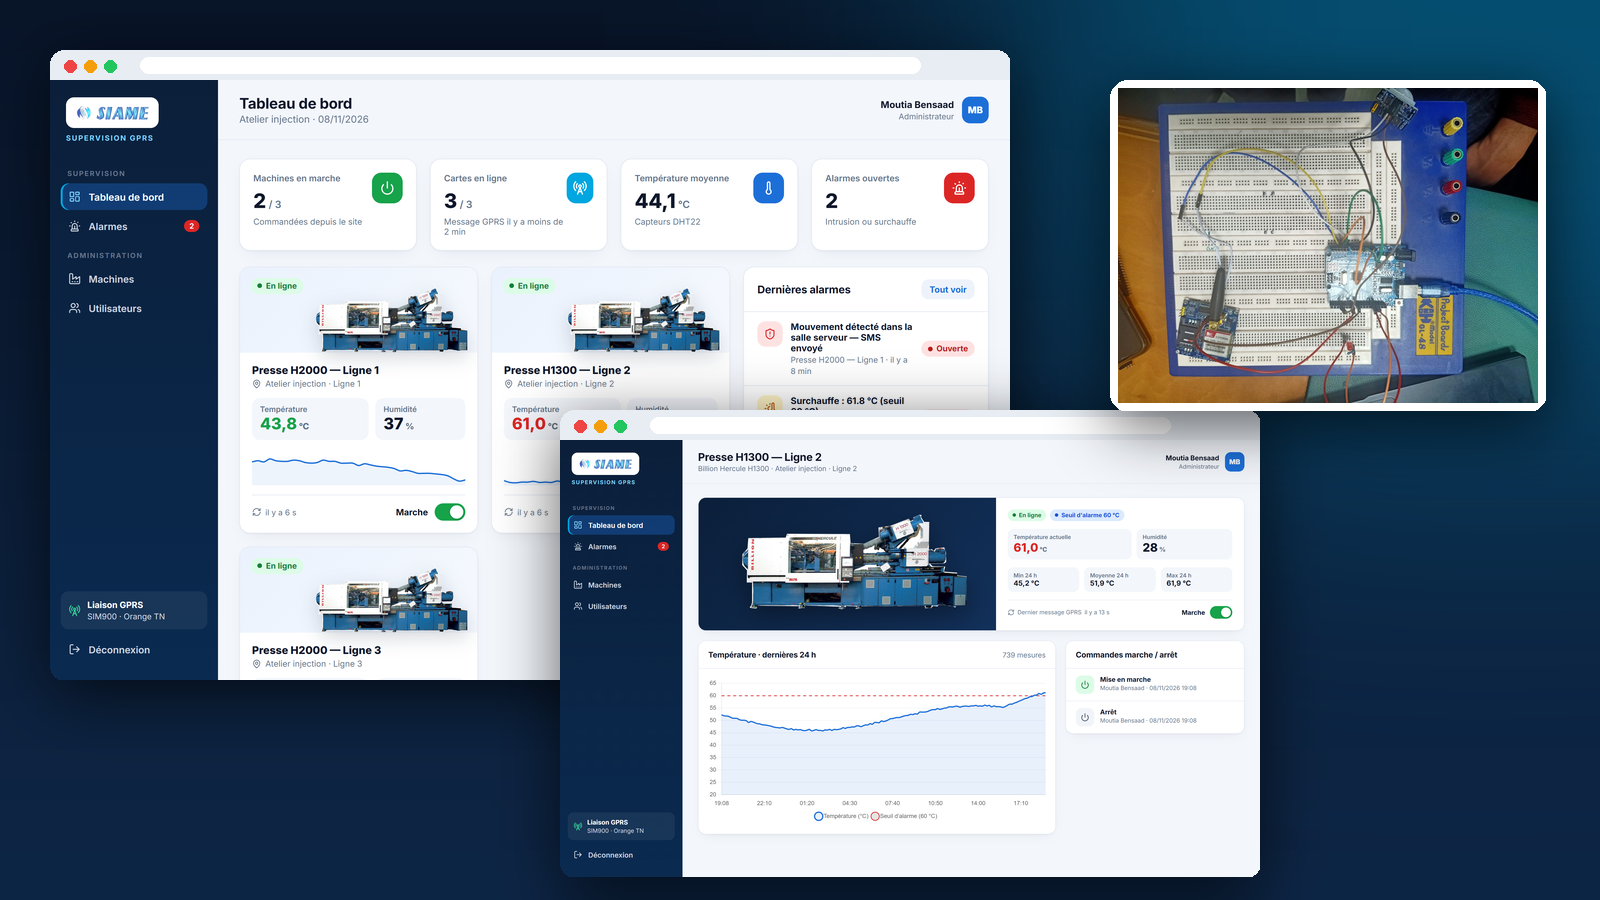
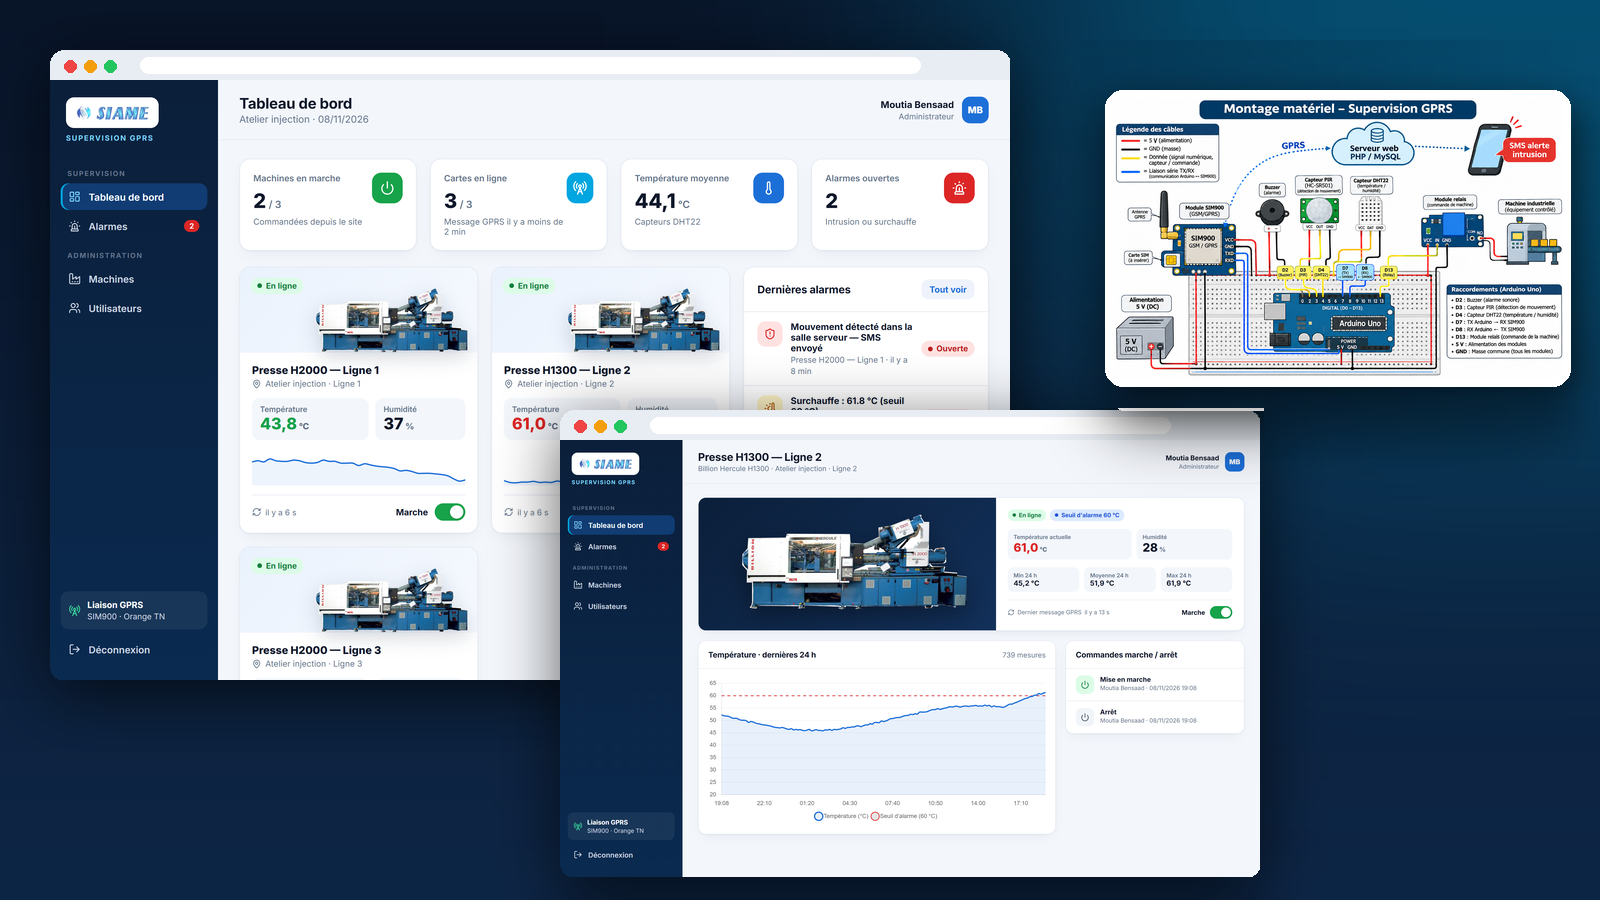
Portfolio: AI visual inspection project, projects in chronological order, more final-year project images

Changed region(s): [[0.6875, 0.0622, 1.0, 0.4667]]

diff --git a/src/components/Project/projects.ts b/src/components/Project/projects.ts
@@ -43,6 +43,19 @@ import pfeAiDiagnostic from "../../assets/projects/details/pfe_ai_diagnostic.jpg
 import pfeKpiMobile from "../../assets/projects/details/pfe_kpi_mobile.jpg"
 import pfeConfusion from "../../assets/projects/details/pfe_confusion.jpg"
 import pfeRoc from "../../assets/projects/details/pfe_roc.jpg"
+import pfeAlerts from "../../assets/projects/details/pfe_alerts.jpg"
+import pfeEpisode from "../../assets/projects/details/pfe_episode.jpg"
+import pfeImportance from "../../assets/projects/details/pfe_importance.jpg"
+import pfeThreshold from "../../assets/projects/details/pfe_threshold.jpg"
+import visualInspection from "../../assets/projects/visual_inspection.png"
+import inspection1 from "../../assets/projects/details/inspection_1.jpg"
+import inspection2 from "../../assets/projects/details/inspection_2.jpg"
+import inspection3 from "../../assets/projects/details/inspection_3.jpg"
+import inspection4 from "../../assets/projects/details/inspection_4.jpg"
+import inspection5 from "../../assets/projects/details/inspection_5.jpg"
+import inspection6 from "../../assets/projects/details/inspection_6.jpg"
+import inspectionM1 from "../../assets/projects/details/inspection_m1.jpg"
+import inspectionM2 from "../../assets/projects/details/inspection_m2.jpg"
 
 export type Shot = { src: string; caption: string; mobile?: boolean }
 
@@ -68,46 +81,86 @@ export type ProjectItem = {
 
 export const projects: ProjectItem[] = [
   {
-    slug: "predictive-maintenance",
-    title: "Intelligent Predictive Maintenance System for Industrial Machines",
-    category: "IoT · AI · Web & Mobile — Final-year project",
+    slug: "siame",
+    title: "SIAME – Remote Machine Monitoring over GPRS",
+    category: "Embedded · IoT — Internship (SIAME)",
     description:
-      "Final-year project (Professional Master). A Raspberry Pi 5 with 5 sensors (temperature, vibration, thermal camera, current) monitors wire processing machines. A Random Forest model identifies the probable failure cause and XGBoost estimates the 24-hour failure risk. Alerts reach the maintenance team in real time on a React web dashboard and a Flutter mobile app, with interventions, preventive checklists and MTBF / MTTR indicators.",
-    techs: ["Raspberry Pi", "Python", "scikit-learn", "XGBoost", "FastAPI", "Node.js", "MongoDB", "React", "Flutter"],
-    image: predictiveMaintenance,
-    featured: true,
+      "Internship at SIAME (electrical equipment manufacturer). An Arduino Uno with a SIM900 GSM/GPRS module sends each injection press's temperature (DHT22) to a PHP/MySQL server, receives remote on/off commands, and a PIR sensor triggers SMS alerts for server-room intrusions.",
+    techs: ["Arduino", "SIM900 GPRS", "DHT22", "PIR", "PHP 8", "MySQL", "Chart.js", "Python"],
+    image: siameGprs,
+    link: "https://github.com/moutiasaad/siame",
+    linkLabel: "Source code",
     details: {
       context:
-        "Six-month final-year internship in a wire harness factory in Tunisia. Maintenance of the Komax wire processing machines (Alpha 433 H and Gamma 333 PC) was purely corrective and tracked on paper. The goal was to see failures coming and to give the maintenance team one tool for alerts, interventions and daily checks.",
-      role: "Whole project, alone: hardware, firmware scripts, machine learning, REST API, web dashboard and mobile app.",
+        "Second-year internship at SIAME, a manufacturer of electrical equipment in Grombalia. The injection presses had no remote supervision, and the server room had no intrusion alarm.",
+      role: "Electronics prototype, Arduino firmware and the PHP web application.",
       features: [
-        "Raspberry Pi 5 on the machine: 2 DHT22 temperature sensors, MPU6050 vibration, AMG8833 thermal camera and SCT-013 current clamp, with a local buffer when the network drops",
-        "AI service every 5 minutes on a 2-hour window: Random Forest gives the probable cause, XGBoost the risk of failure within 24 hours",
-        "Alerts pushed to the right person (line leader, then maintenance manager), approval of an alert into a predictive intervention",
-        "Interventions, preventive checklists with photo evidence, daily follow-up sheet, maintenance calendar",
-        "MTBF / MTTR indicators and reliability reports per machine",
-        "Sensor and Raspberry Pi watchdog: offline Pi or silent sensor raises its own alert",
+        "Arduino Uno + SIM900: periodic GPRS request with temperature and humidity, the reply carries the on/off command for the machine relay",
+        "PIR sensor in the server room: SMS to the person in charge, buzzer and an intrusion alarm on the dashboard",
+        "Web dashboard: machines online, live temperatures, 24-hour charts with the alarm threshold",
+        "Remote start / stop with a log of who sent each command",
+        "Alarm list with acknowledgement, user and machine administration",
+        "Python simulator to test the server without the board",
       ],
       highlights: [
-        "Random Forest: macro F1 0.85 on 5 failure causes, validated with week-blocked cross-validation",
-        "XGBoost 24-hour risk: AUC 0.94, all 69 test failures announced, median 19.5 h in advance, about 1 false alert per week (6.5 with simple thresholds)",
-        "Real prototype tested on an Alpha 433 H machine",
+        "Non-blocking firmware: AT commands wait for the modem replies instead of fixed delays",
+        "Each board authenticates with a device key; the server rejects out-of-range readings",
       ],
       stack: [
-        { label: "IoT", items: ["Raspberry Pi 5", "Python", "I²C", "systemd"] },
-        { label: "AI", items: ["scikit-learn", "XGBoost", "pandas", "FastAPI"] },
-        { label: "Backend", items: ["Node.js", "Express", "MongoDB", "JWT", "Firebase Cloud Messaging"] },
-        { label: "Apps", items: ["React", "Flutter"] },
+        { label: "Embedded", items: ["Arduino Uno", "SIM900 GSM/GPRS", "DHT22", "PIR", "Relay"] },
+        { label: "Web", items: ["PHP 8", "MySQL", "Chart.js"] },
+        { label: "Tools", items: ["Python", "arduino-cli"] },
       ],
       gallery: [
-        { src: predictiveMaintenance, caption: "Web dashboard and mobile app" },
-        { src: pfeArchitecture, caption: "System architecture: IoT units, central server, web and mobile apps" },
-        { src: pfePrototype, caption: "Prototype wiring: Raspberry Pi, DHT22 ×2, MPU6050, AMG8833 and SCT-013 current clamp" },
-        { src: pfeSensors, caption: "Live sensor values on a machine (web)" },
-        { src: pfeAiDiagnostic, caption: "AI diagnostic when creating an intervention" },
-        { src: pfeKpiMobile, caption: "Maintenance KPIs in the mobile app (MTTR, MTBF, availability)" },
-        { src: pfeConfusion, caption: "Random Forest: confusion matrix on the 5 failure causes + normal" },
-        { src: pfeRoc, caption: "XGBoost 24-hour risk: ROC curve (AUC 0.94)" },
+        { src: siamePrototype, caption: "Prototype wiring: Arduino Uno, SIM900 GPRS module, DHT22, PIR sensor, buzzer and machine relay" },
+        { src: siame1, caption: "Supervision dashboard" },
+        { src: siame2, caption: "Machine detail with 24-hour temperature chart" },
+        { src: siame3, caption: "Alarms: intrusion and overheating" },
+        { src: siameM1, caption: "Mobile view", mobile: true },
+      ],
+    },
+  },
+  {
+    slug: "visual-inspection",
+    title: "AI Visual Quality Inspection for Injection-Molded Parts",
+    category: "AI · Embedded · Web — Makeathon (Orange Digital Center)",
+    description:
+      "Makeathon project. A camera on a Raspberry Pi at the output of a plastic injection press photographs every terminal block. A two-stage AI first decides good or defective, then names the defect. Results reach a Django API and a web dashboard where the quality team follows the scrap rate of each press and decides on the parts the AI is unsure about.",
+    techs: ["Raspberry Pi", "Python", "TensorFlow Lite", "MobileNetV2", "Django REST", "React", "Vite"],
+    image: visualInspection,
+    details: {
+      context:
+        "Inter-ODC Makeathon organised by Orange Digital Center. In plastic injection workshops, parts are still checked by eye at the press output, and defects such as burn marks or bubbles slip through on long shifts. The prototype targets terminal blocks, a typical part made on injection presses.",
+      role: "AI model and training, inspection script for the Raspberry Pi, Django REST API and web dashboard.",
+      features: [
+        "Raspberry Pi with a camera at the press output; the inspection runs on the Pi with TensorFlow Lite",
+        "Stage 1, good or defective: anomaly detection learned from photos of good parts only (PatchCore idea on MobileNetV2 features), so it does not need many photos of defects",
+        "Stage 2, defect type: MobileNetV2 transfer learning on a zoom of the most suspicious zone found by stage 1",
+        "Results the AI is unsure about are flagged «to check»: the operator sees the photo and decides",
+        "Dashboard: parts inspected per day, scrap rate per press, defect types, full history with photos",
+        "Device API protected by a key; each inspection is stored with its photo",
+      ],
+      highlights: [
+        "Decision threshold chosen by cost: a defective part let through counts ten times more than a good part rejected",
+        "Train / test split grouped by part, so photos of the same part never end up on both sides",
+        "The same .tflite models run on the PC and on the Raspberry Pi",
+      ],
+      stack: [
+        { label: "AI", items: ["TensorFlow / Keras", "MobileNetV2", "TensorFlow Lite", "scikit-learn"] },
+        { label: "Embedded", items: ["Raspberry Pi", "Pi Camera", "Python"] },
+        { label: "Backend", items: ["Django REST Framework", "Token auth", "SQLite"] },
+        { label: "Web", items: ["React", "Vite", "Recharts"] },
+      ],
+      gallery: [
+        { src: visualInspection, caption: "Quality dashboard, part review and mobile view" },
+        { src: inspection1, caption: "Dashboard: inspections per day, scrap rate per press and defect types" },
+        { src: inspection4, caption: "A part the AI is unsure about: the operator sees the photo and decides" },
+        { src: inspection3, caption: "Inspection history with photos and filters" },
+        { src: inspection2, caption: "Press detail: daily parts, defects and history" },
+        { src: inspection5, caption: "Presses with their scrap rate" },
+        { src: inspection6, caption: "Sign-in page" },
+        { src: inspectionM1, caption: "Mobile: dashboard", mobile: true },
+        { src: inspectionM2, caption: "Mobile: presses", mobile: true },
       ],
     },
   },
@@ -147,6 +200,34 @@ export const projects: ProjectItem[] = [
         { src: mstM1, caption: "Mobile: quote", mobile: true },
         { src: mstM2, caption: "Mobile: quote result", mobile: true },
       ],
+    },
+  },
+  {
+    slug: "neapolis-car",
+    title: "Neapolis Car – Car Rental Mobile App",
+    category: "Mobile",
+    description:
+      "First mobile application of Neapolis Car, a car rental company, extending its reservation website. Clients can browse available cars, book a rental or a transfer service and follow their reservations. Published on Google Play.",
+    techs: ["Flutter", "Django", "PostgreSQL"],
+    image: neapolisCar,
+    link: "https://play.google.com/store/apps/details?id=com.neapolis_car.neapolis_car&pcampaignid=web_share",
+    linkLabel: "Google Play",
+    details: {
+      context:
+        "Neapolis Car rents cars and offers transfers and excursions in Tunisia. Reservations were only possible on the website; the company wanted a mobile app connected to the same backend.",
+      role: "Flutter client app: screens, API integration with the existing Django backend, publication on Google Play.",
+      features: [
+        "Browse available cars with details and prices",
+        "Book a rental for given dates, or a transfer service",
+        "Account creation and login",
+        "Follow and manage reservations",
+      ],
+      highlights: ["Live product published on Google Play"],
+      stack: [
+        { label: "Mobile", items: ["Flutter", "Dart"] },
+        { label: "Backend", items: ["Django", "PostgreSQL"] },
+      ],
+      gallery: [{ src: neapolisCar, caption: "Reservation, car list, car details and registration screens" }],
     },
   },
   {
@@ -244,70 +325,50 @@ export const projects: ProjectItem[] = [
     },
   },
   {
-    slug: "neapolis-car",
-    title: "Neapolis Car – Car Rental Mobile App",
-    category: "Mobile",
+    slug: "predictive-maintenance",
+    title: "Intelligent Predictive Maintenance System for Industrial Machines",
+    category: "IoT · AI · Web & Mobile — Final-year project",
     description:
-      "First mobile application of Neapolis Car, a car rental company, extending its reservation website. Clients can browse available cars, book a rental or a transfer service and follow their reservations. Published on Google Play.",
-    techs: ["Flutter", "Django", "PostgreSQL"],
-    image: neapolisCar,
-    link: "https://play.google.com/store/apps/details?id=com.neapolis_car.neapolis_car&pcampaignid=web_share",
-    linkLabel: "Google Play",
+      "Final-year project (Professional Master). A Raspberry Pi 5 with 5 sensors (temperature, vibration, thermal camera, current) monitors wire processing machines. A Random Forest model identifies the probable failure cause and XGBoost estimates the 24-hour failure risk. Alerts reach the maintenance team in real time on a React web dashboard and a Flutter mobile app, with interventions, preventive checklists and MTBF / MTTR indicators.",
+    techs: ["Raspberry Pi", "Python", "scikit-learn", "XGBoost", "FastAPI", "Node.js", "MongoDB", "React", "Flutter"],
+    image: predictiveMaintenance,
+    featured: true,
     details: {
       context:
-        "Neapolis Car rents cars and offers transfers and excursions in Tunisia. Reservations were only possible on the website; the company wanted a mobile app connected to the same backend.",
-      role: "Flutter client app: screens, API integration with the existing Django backend, publication on Google Play.",
+        "Six-month final-year internship in a wire harness factory in Tunisia. Maintenance of the Komax wire processing machines (Alpha 433 H and Gamma 333 PC) was purely corrective and tracked on paper. The goal was to see failures coming and to give the maintenance team one tool for alerts, interventions and daily checks.",
+      role: "Whole project, alone: hardware, firmware scripts, machine learning, REST API, web dashboard and mobile app.",
       features: [
-        "Browse available cars with details and prices",
-        "Book a rental for given dates, or a transfer service",
-        "Account creation and login",
-        "Follow and manage reservations",
-      ],
-      highlights: ["Live product published on Google Play"],
-      stack: [
-        { label: "Mobile", items: ["Flutter", "Dart"] },
-        { label: "Backend", items: ["Django", "PostgreSQL"] },
-      ],
-      gallery: [{ src: neapolisCar, caption: "Reservation, car list, car details and registration screens" }],
-    },
-  },
-  {
-    slug: "siame",
-    title: "SIAME – Remote Machine Monitoring over GPRS",
-    category: "Embedded · IoT — Internship (SIAME)",
-    description:
-      "Internship at SIAME (electrical equipment manufacturer). An Arduino Uno with a SIM900 GSM/GPRS module sends each injection press's temperature (DHT22) to a PHP/MySQL server, receives remote on/off commands, and a PIR sensor triggers SMS alerts for server-room intrusions.",
-    techs: ["Arduino", "SIM900 GPRS", "DHT22", "PIR", "PHP 8", "MySQL", "Chart.js", "Python"],
-    image: siameGprs,
-    link: "https://github.com/moutiasaad/siame",
-    linkLabel: "Source code",
-    details: {
-      context:
-        "Second-year internship at SIAME, a manufacturer of electrical equipment in Grombalia. The injection presses had no remote supervision, and the server room had no intrusion alarm.",
-      role: "Electronics prototype, Arduino firmware and the PHP web application.",
-      features: [
-        "Arduino Uno + SIM900: periodic GPRS request with temperature and humidity, the reply carries the on/off command for the machine relay",
-        "PIR sensor in the server room: SMS to the person in charge, buzzer and an intrusion alarm on the dashboard",
-        "Web dashboard: machines online, live temperatures, 24-hour charts with the alarm threshold",
-        "Remote start / stop with a log of who sent each command",
-        "Alarm list with acknowledgement, user and machine administration",
-        "Python simulator to test the server without the board",
+        "Raspberry Pi 5 on the machine: 2 DHT22 temperature sensors, MPU6050 vibration, AMG8833 thermal camera and SCT-013 current clamp, with a local buffer when the network drops",
+        "AI service every 5 minutes on a 2-hour window: Random Forest gives the probable cause, XGBoost the risk of failure within 24 hours",
+        "Alerts pushed to the right person (line leader, then maintenance manager), approval of an alert into a predictive intervention",
+        "Interventions, preventive checklists with photo evidence, daily follow-up sheet, maintenance calendar",
+        "MTBF / MTTR indicators and reliability reports per machine",
+        "Sensor and Raspberry Pi watchdog: offline Pi or silent sensor raises its own alert",
       ],
       highlights: [
-        "Non-blocking firmware: AT commands wait for the modem replies instead of fixed delays",
-        "Each board authenticates with a device key; the server rejects out-of-range readings",
+        "Random Forest: macro F1 0.85 on 5 failure causes, validated with week-blocked cross-validation",
+        "XGBoost 24-hour risk: AUC 0.94, all 69 test failures announced, median 19.5 h in advance, about 1 false alert per week (6.5 with simple thresholds)",
+        "Real prototype tested on an Alpha 433 H machine",
       ],
       stack: [
-        { label: "Embedded", items: ["Arduino Uno", "SIM900 GSM/GPRS", "DHT22", "PIR", "Relay"] },
-        { label: "Web", items: ["PHP 8", "MySQL", "Chart.js"] },
-        { label: "Tools", items: ["Python", "arduino-cli"] },
+        { label: "IoT", items: ["Raspberry Pi 5", "Python", "I²C", "systemd"] },
+        { label: "AI", items: ["scikit-learn", "XGBoost", "pandas", "FastAPI"] },
+        { label: "Backend", items: ["Node.js", "Express", "MongoDB", "JWT", "Firebase Cloud Messaging"] },
+        { label: "Apps", items: ["React", "Flutter"] },
       ],
       gallery: [
-        { src: siamePrototype, caption: "Prototype wiring: Arduino Uno, SIM900 GPRS module, DHT22, PIR sensor, buzzer and machine relay" },
-        { src: siame1, caption: "Supervision dashboard" },
-        { src: siame2, caption: "Machine detail with 24-hour temperature chart" },
-        { src: siame3, caption: "Alarms: intrusion and overheating" },
-        { src: siameM1, caption: "Mobile view", mobile: true },
+        { src: predictiveMaintenance, caption: "Web dashboard and mobile app" },
+        { src: pfeArchitecture, caption: "System architecture: IoT units, central server, web and mobile apps" },
+        { src: pfePrototype, caption: "Prototype wiring: Raspberry Pi, DHT22 ×2, MPU6050, AMG8833 and SCT-013 current clamp" },
+        { src: pfeSensors, caption: "Live sensor values on a machine (web)" },
+        { src: pfeAlerts, caption: "AI alerts and failure predictions, confirmed or marked as false alerts" },
+        { src: pfeAiDiagnostic, caption: "AI diagnostic when creating an intervention" },
+        { src: pfeKpiMobile, caption: "Maintenance KPIs in the mobile app (MTTR, MTBF, availability)" },
+        { src: pfeConfusion, caption: "Random Forest: confusion matrix on the 5 failure causes + normal" },
+        { src: pfeRoc, caption: "XGBoost 24-hour risk: ROC curve (AUC 0.94)" },
+        { src: pfeThreshold, caption: "XGBoost: precision and recall by threshold, with the warning (60 %) and critical (80 %) levels" },
+        { src: pfeImportance, caption: "Which sensors the models rely on most" },
+        { src: pfeEpisode, caption: "A motor overload episode seen by the sensors (red = failure in progress)" },
       ],
     },
   },
